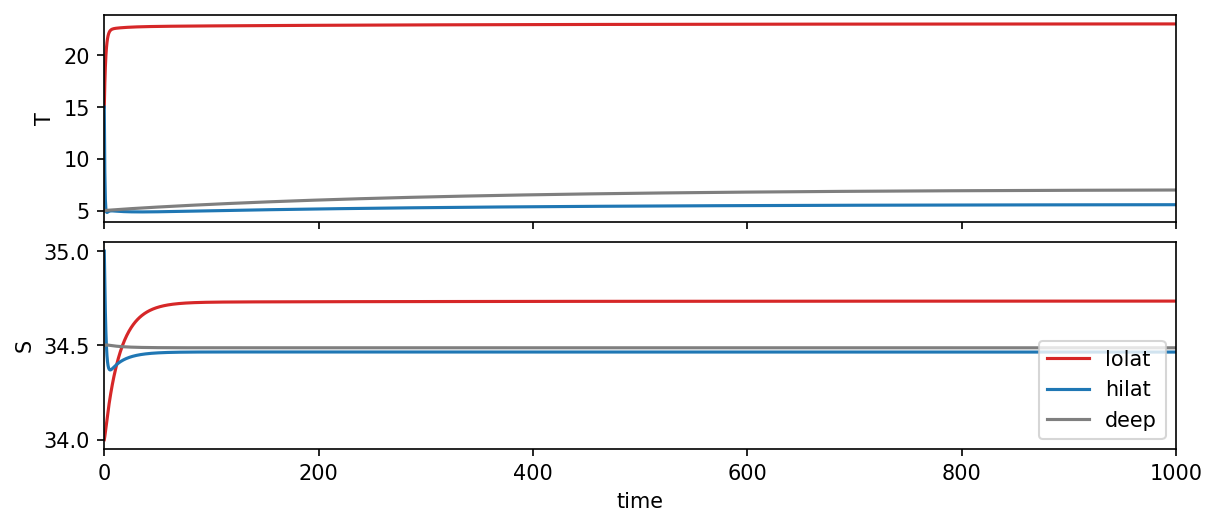
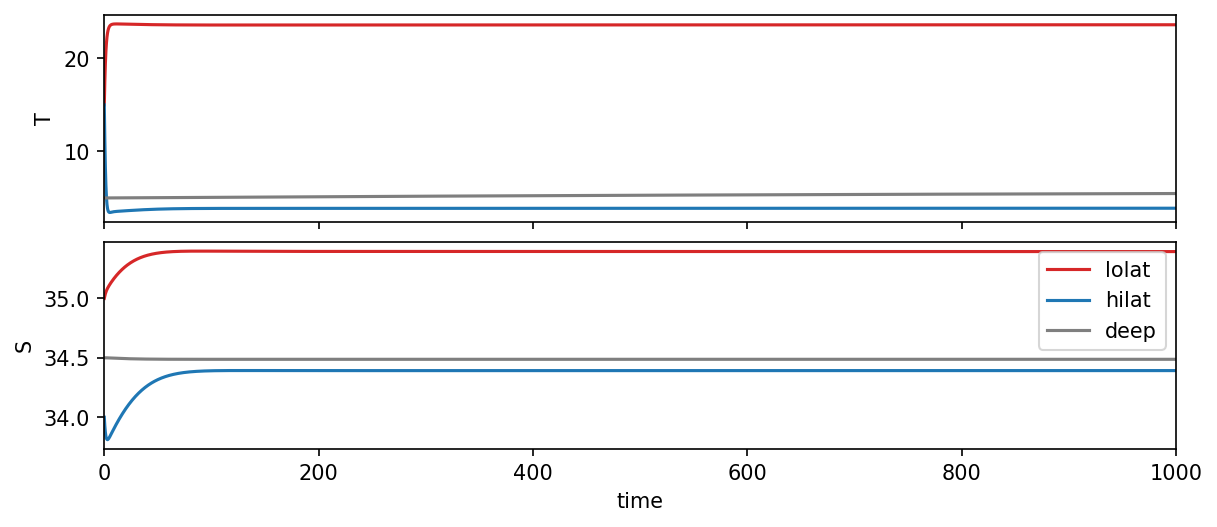
incldue TS slide

diff --git a/book/06_oceancarbon/slides/src/L39.tex b/book/06_oceancarbon/slides/src/L39.tex
@@ -25,6 +25,12 @@
         
 \end{frame}
 
+\section{Model Code}
+
+\begin{frame}{Model Code}
+    \includegraphics<1>[width=\linewidth, height=0.8\textheight, keepaspectratio]{carbon-model-TS.png}
+\end{frame}
+
 \section{Model Parameters}
 
 \begin{frame}{Key Parameters}
